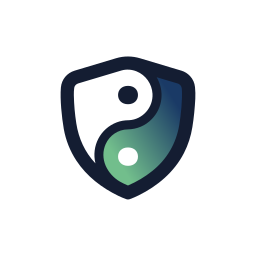
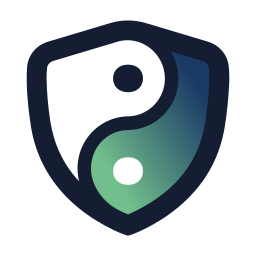
fix(wordpress-plugin): poprawki po recenzji WordPress.org
Tested up to tylko w readme.txt (build odrzuca go w nagłówku PHP), paczka
dystrybucyjna bez gotowych tłumaczeń .po/.mo, większy sygnet w ikonie katalogu
oraz opis tych zasad i regeneracji grafik w PUBLISHING.md.

diff --git a/cookiezen.php b/cookiezen.php
@@ -7,7 +7,6 @@
  * Author: Semavo Solutions Sp. z o.o.
  * Author URI: https://cookiezen.pl
  * Requires at least: 5.5
- * Tested up to: 7.1
  * Requires PHP: 7.4
  * License: GPLv2 or later
  * License URI: https://www.gnu.org/licenses/gpl-2.0.html
@@ -27,16 +26,16 @@ if ( ! defined( 'ABSPATH' ) ) {
 define( 'COOKIEZEN_VERSION', '1.0.4' );
 
 /*
- * Nie wolamy `load_plugin_textdomain()`. Mechanizm just-in-time sam znajduje
- * `languages/cookiezen-pl_PL.mo` w katalogu wtyczki, takze przy instalacji
- * recznej spoza katalogu WordPress.org, czyli przy paczce pobranej z panelu
- * CookieZen (zmierzone 2026-09-20 na WordPressie 7.1.1: wariant bez tego
- * wywolania nadal pokazuje polski opis wtyczki i polskie podpisy w ustawieniach).
+ * Nie wolamy `load_plugin_textdomain()`. Mechanizm just-in-time sam znajduje plik
+ * `.mo` biezacej lokalizacji, zarowno w `wp-content/languages/plugins/`, gdzie
+ * kladzie go katalog WordPress.org, jak i w `languages/` wtyczki (zmierzone
+ * 2026-09-20 na WordPressie 7.1.1: wariant bez tego wywolania nadal pokazuje
+ * polski opis wtyczki i polskie podpisy w ustawieniach).
  * Plugin Check zglasza to wywolanie jako odradzane od WordPressa 4.6.
  *
- * Nagłowek `Description` tlumaczy sie przez te sama domene tekstowa, wiec jego
- * tresc musi byc wpisem w katalogu tlumaczen; sam angielski naglowek w pliku
- * nie wystarczy.
+ * Gotowe tlumaczenia (.po/.mo) nie ida w paczce dystrybucyjnej: katalog
+ * WordPress.org generuje je z translate.wordpress.org i dostarcza wlasnym kanalem.
+ * Zrodla zostaja w repo, w `languages/`.
  */
 
 function cookiezen_register_settings() {

diff --git a/PUBLISHING.md b/PUBLISHING.md
@@ -38,14 +38,19 @@ Zespół wtyczek ogłosił ten wymóg 2025-07-28 wpisem „Requiring the README 
 Polska wersja karty nie powstaje przez drugi plik, tylko przez tłumaczenie na translate.wordpress.org.
 Projekty tłumaczeń zakłada się po zatwierdzeniu wtyczki, a własne tłumaczenia zatwierdza się samodzielnie po uzyskaniu roli PTE dla swojej wtyczki.
 
-Interfejsu wtyczki ten wymóg nie dotyczy, ale i tak trzymamy angielskie źródła w `__()` oraz polskie tłumaczenie w `languages/`.
+Interfejsu wtyczki ten wymóg nie dotyczy, ale i tak trzymamy angielskie źródła w `__()`, a polskie tłumaczenie w `languages/` tego repo.
 
-Nie wołamy `load_plugin_textdomain()`, bo mechanizm just-in-time sam znajduje plik `.mo` w katalogu `languages/` wtyczki.
-Dotyczy to także instalacji ręcznej spoza katalogu, czyli paczki pobranej z panelu CookieZen: zmierzone 2026-09-20 na WordPressie 7.1.1 przez wgranie wariantu bez tego wywołania, po którym opis wtyczki i podpisy w ustawieniach pozostały polskie.
+**Pułapka: gotowe tłumaczenia nie wchodzą do paczki dystrybucyjnej.**
+Katalog WordPress.org generuje pliki `.po` i `.mo` z translate.wordpress.org i dostarcza je zwykłym kanałem aktualizacji tłumaczeń, więc te same pliki w pakiecie uznaje za zbędne; zespół recenzji zgłosił to nam 2026-09-21.
+Build kopiuje do `dist/` wyłącznie szablon `.pot`, a źródła tłumaczeń zostają w repo.
+Konsekwencja dotyczy paczki pobieranej z panelu CookieZen, bo ona nie ma kanału z translate.wordpress.org: do czasu wgrania tłumaczeń tam i uzyskania roli PTE polski klient zobaczy angielski interfejs wtyczki.
+
+Nie wołamy `load_plugin_textdomain()`, bo mechanizm just-in-time sam znajduje plik `.mo` bieżącej lokalizacji, zarówno w `wp-content/languages/plugins/`, gdzie kładzie go katalog, jak i w `languages/` wtyczki.
+Zmierzone 2026-09-20 na WordPressie 7.1.1 przez wgranie wariantu bez tego wywołania, po którym opis wtyczki i podpisy w ustawieniach pozostały polskie.
 Plugin Check zgłasza to wywołanie jako odradzane od WordPressa 4.6, więc jego brak jest jednocześnie zgodny z narzędziem i wystarczający.
 
 **Pułapka: nagłówek `Description` też idzie przez katalog tłumaczeń.**
-WordPress tłumaczy nagłówki wtyczki przez jej domenę tekstową, więc angielski napis w pliku musi mieć swój wpis w `.po`, inaczej polski klient zobaczy angielski opis na liście wtyczek.
+WordPress tłumaczy nagłówki wtyczki przez jej domenę tekstową, więc angielski napis w pliku musi mieć swój wpis w tłumaczeniu, inaczej polski klient zobaczy angielski opis na liście wtyczek.
 `xgettext` nie wyciąga nagłówków z komentarza, trzeba je dopisać ręcznie z komentarzem `#. Description of the plugin`.
 
 ## Zgłoszenie wtyczki
@@ -111,6 +116,25 @@ Grafiki mają warianty językowe.
 Plik bez sufiksu jest domyślny, a `banner-772x250-pl_PL.png` serwuje się polskim odwiedzającym; ta sama zasada działa dla zrzutów ekranu, na przykład `screenshot-1-pl_PL.png`.
 Zrzuty wymagają jednego pliku na każdą linię sekcji `== Screenshots ==` w `readme.txt`, więc sekcję dopisuje się razem z plikami, nigdy wcześniej.
 
+### Regeneracja grafik
+
+Banery i ikonę składa `scripts/generate-wporg-assets.mjs` z logotypów marki, a wynik trafia do `.wporg-assets/`.
+Po każdej zmianie w generatorze uruchom go i podmień pliki w `assets/` w working copy SVN; katalog serwuje je niezależnie od `trunk/`, więc podmiana nie wymaga podbicia wersji wtyczki.
+
+**Pułapka: to repo nie ma własnego `package.json` ani `node_modules`, a generator wymaga pakietu `sharp`.**
+Node rozwiązuje `import` względem położenia pliku, nie katalogu roboczego, więc samo `cd` do repo z `sharp` nic nie da.
+Najprościej uruchomić kopię skryptu obok cudzego `node_modules`, na przykład z `cmp-app`:
+
+```bash
+WORK="$(mktemp -d)"
+ln -s ~/Projects/cmp-app/node_modules "${WORK}/node_modules"
+cp scripts/generate-wporg-assets.mjs "${WORK}/"
+node "${WORK}/generate-wporg-assets.mjs" "$(pwd)/.wporg-assets"
+```
+
+Po regeneracji porównaj sumy kontrolne starych i nowych plików.
+Zmiana dotykająca jednej grafiki musi zostawić pozostałe bajt w bajt nietknięte; każdy inny wynik znaczy, że ruszyłeś więcej, niż zamierzałeś.
+
 ## Wydanie nowej wersji
 
 Podbij metadane w tym repo: `Version:` w `cookiezen.php`, `Stable tag:` w `readme.txt` oraz wpis w sekcji `== Changelog ==`, opcjonalnie też w `== Upgrade Notice ==`.
@@ -149,6 +173,10 @@ Lokalnie sprawdza się [Local by Flywheel](https://localwp.com/) albo `docker ru
 **Pułapka: pole `Tested up to` deklaruje wersję, na której wtyczkę faktycznie sprawdzono, i przyjmuje wyłącznie wersję główną.**
 Nie jest to najnowsza wersja WordPressa, jaka istnieje, więc wersja środowiska testowego i wartość tego pola muszą się zgadzać.
 Numer łatki jest błędem: przy WordPressie 7.1.1 w polu ma stać `7.1`, a Plugin Check odrzuca `7.1.1` kodem `invalid_tested_upto_minor`.
+
+**Pułapka: to pole stoi wyłącznie w `readme.txt`, nigdy w nagłówku `cookiezen.php`.**
+Nagłówek w pliku PHP potrafi wziąć górę nad readme, więc karta wtyczki, wyszukiwarka katalogu i komunikat o zgodności pokazują wtedy inną wersję niż ta, którą utrzymujesz.
+Zespół recenzji zgłosił nam to 2026-09-21 jako błąd blokujący; build od tego czasu odrzuca obecność tego nagłówka w pliku PHP.
 
 Przed każdym zgłoszeniem uruchom wtyczkę [Plugin Check](https://wordpress.org/plugins/plugin-check/) na środowisku testowym, w Narzędzia → Sprawdź wtyczkę.
 Formularz zgłoszeniowy wymaga potwierdzenia, że jej uwagi są rozwiązane poza tymi, które uznajesz za fałszywe trafienia.
